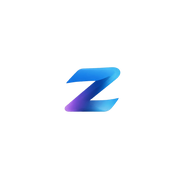
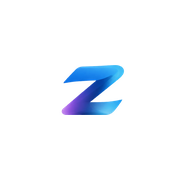
fix(brand): 图标里的 Z 放大（P56）
之前图标用的是"带方形留白的徽标"（logo-mark 本身四周有 PAD=10），
再缩到 0.84，等于留了两层边，Z 只占图标约 67%，白框显得很空。

改成直接用裁好的徽标（无留白），占比 0.84 → 0.92。
导出 192px 检查图确认 Z 明显变大、四周留白均匀。

Changed region(s): [[0.3333, 0.3611, 0.6944, 0.6389]]

diff --git a/tools/make_brand.py b/tools/make_brand.py
@@ -196,8 +196,8 @@ def main() -> int:
         canvas = Image.new("RGBA", (size, size), (0, 0, 0, 0))
         ImageDraw.Draw(canvas).rounded_rectangle(
             (0, 0, size - 1, size - 1), radius=max(2, int(size * 0.22)), fill=(255, 255, 255, 255))
-        inner = int(size * 0.84)
-        scaled = square.copy()
+        inner = int(size * 0.92)
+        scaled = mark.copy()
         scaled.thumbnail((inner, inner), Image.LANCZOS)
         canvas.alpha_composite(scaled, ((size - scaled.size[0]) // 2,
                                         (size - scaled.size[1]) // 2))
